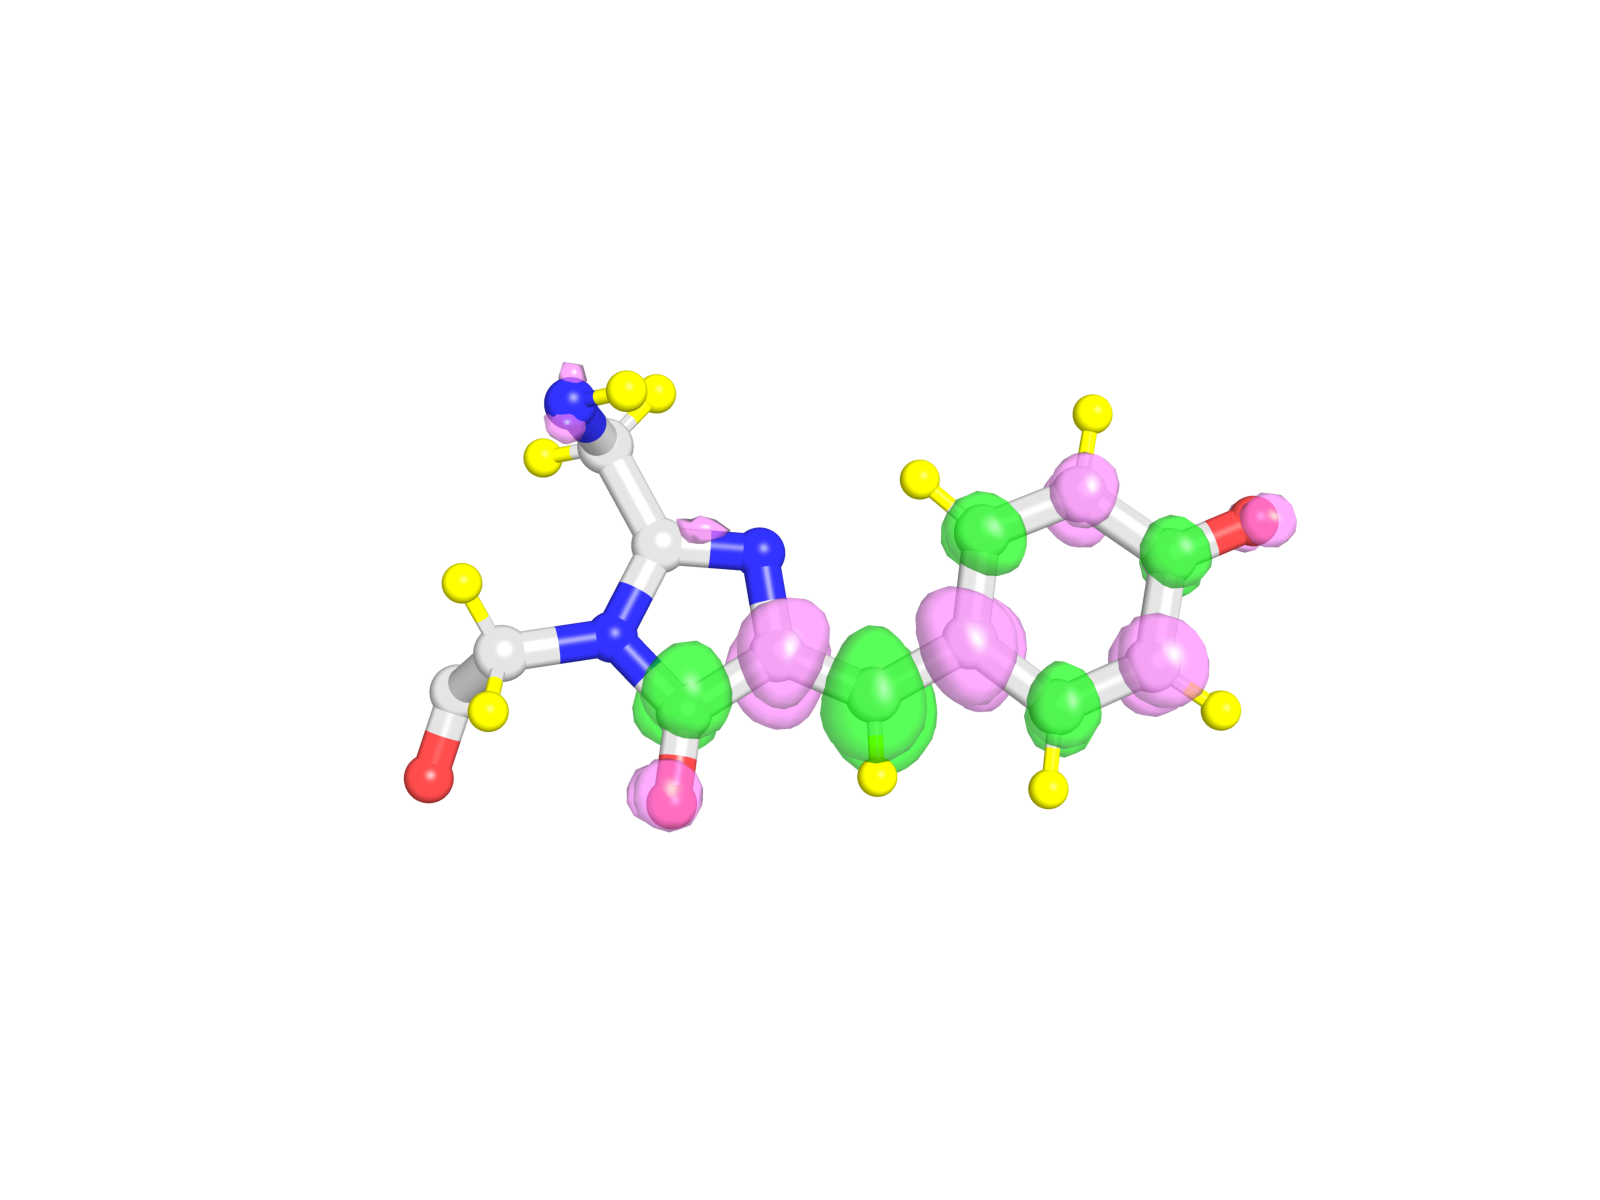
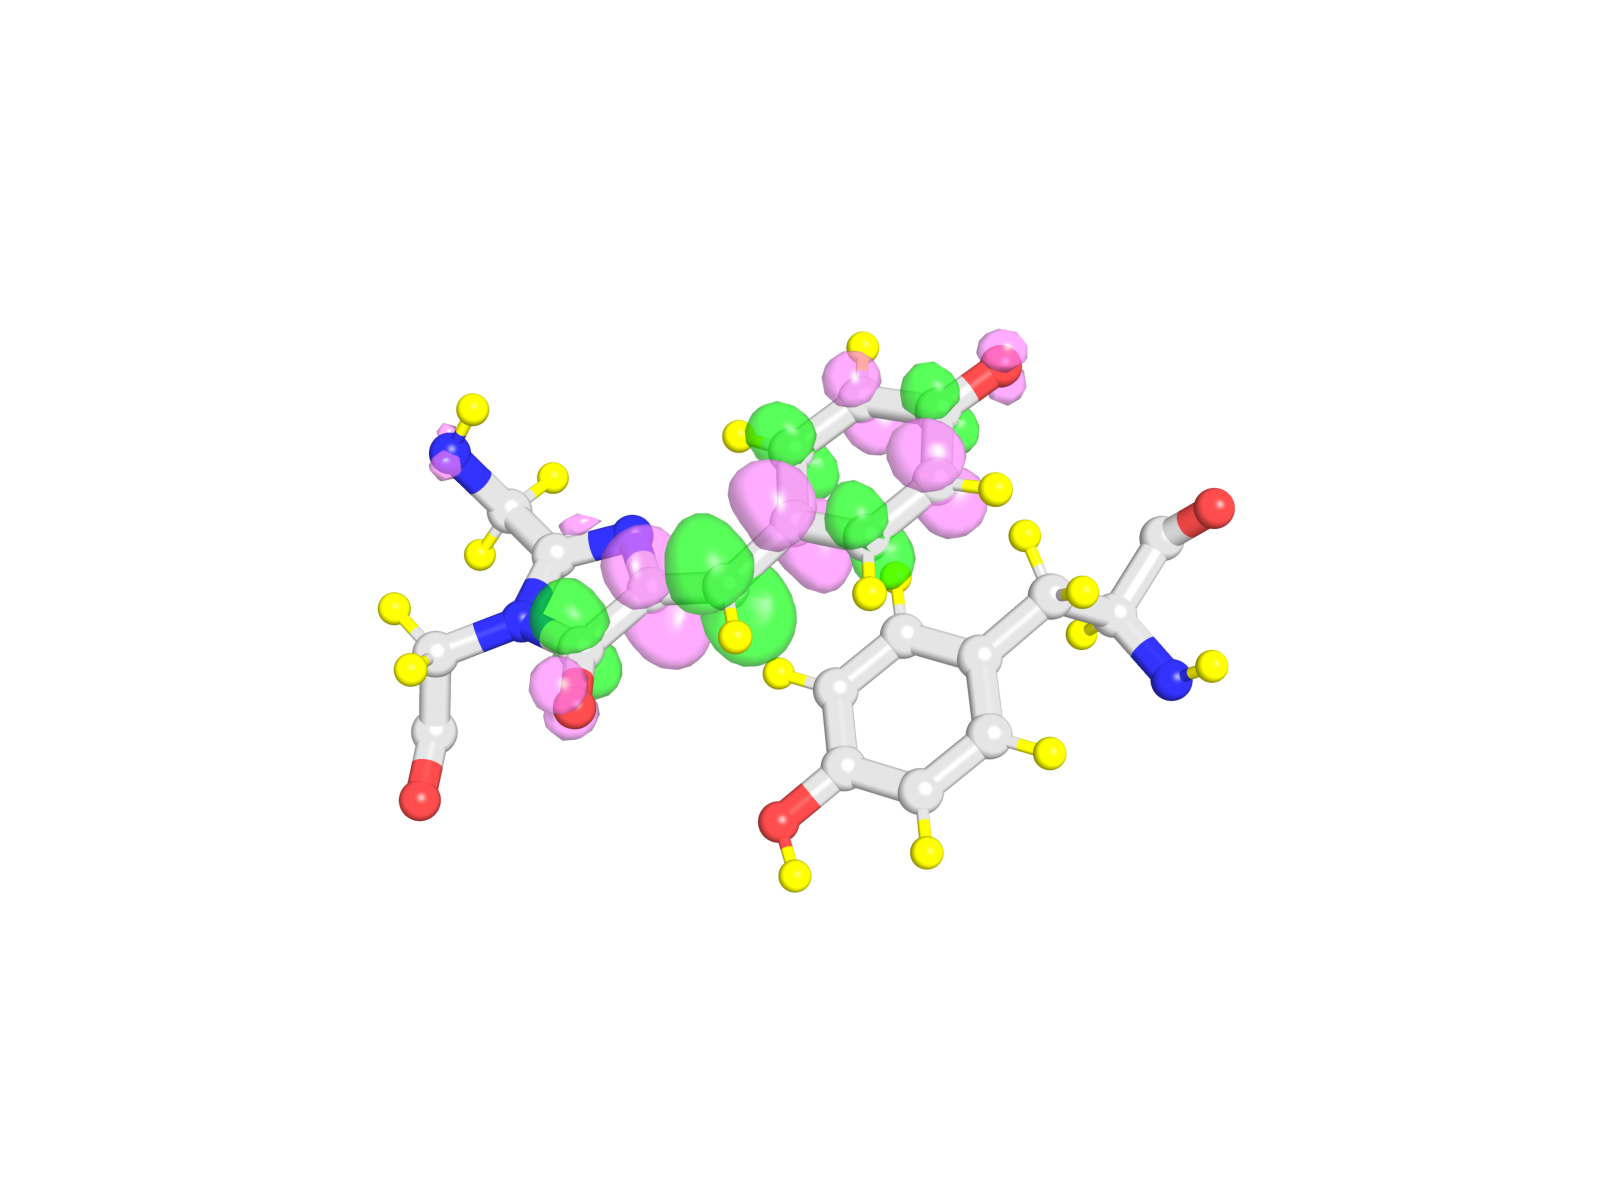
Include pi-stacked Tyr203 in QM panels and reduce transparency of MM skeleton

Changed region(s): [[0.2188, 0.2775, 0.8125, 0.74]]

diff --git a/make_paper_figures.py b/make_paper_figures.py
@@ -11,7 +11,7 @@ MONO  = "/home/robson/PetaChem/tc_simple_anionic/monomer_relaxed.pdb"
 TRANS = "/home/robson/PetaChem/neo_model/orca_steom/steom_transdens.cube"
 DIFF  = "/home/robson/PetaChem/neo_model/orca_steom/steom_diffdens.cube"
 OUT   = "/home/robson/PetaChem/plots_steom"; os.makedirs(OUT, exist_ok=True)
-ISO, W, H, QM = 0.04, 1600, 1200, "resi 66"     # CR2 chromophore
+ISO, W, H, QM = 0.04, 1600, 1200, "(resi 66 or resi 202)"     # CR2 + Tyr203 phenol (202 in PDB)
 
 cmd.reinitialize()
 cmd.bg_color("white")
@@ -31,7 +31,7 @@ cmd.matrix_copy("siteB", "siteB")
 cmd.hide("everything")
 cmd.show("sticks", "dimer_ref and backbone")
 cmd.set("stick_radius", 0.05, "dimer_ref")
-cmd.set("stick_transparency", 0.65, "dimer_ref")
+cmd.set("stick_transparency", 0.45, "dimer_ref")
 cmd.spectrum("count", "rainbow", "dimer_ref and resi 1-240")
 cmd.spectrum("count", "rainbow", "dimer_ref and resi 250-500")
 
